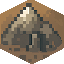
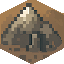
fix mountain image

Changed region(s): [[0.5312, 0.0, 1.0, 0.25]]

diff --git a/src/components/TitleBackground.vue b/src/components/TitleBackground.vue
@@ -15,7 +15,7 @@ import { getTileType, getCachedTile } from '../core/procGen';
 // Asset imports for real tile imagery (masked to hex)
 import forest from '../assets/tiles/forest.png';
 import plains from '../assets/tiles/plains.png';
-import mountain from '../assets/tiles/mountain.png';
+import mountain from '../assets/tiles/mountains.png';
 import water from '../assets/tiles/water.png';
 import ruin from '../assets/tiles/ruin.png';
 

diff --git a/src/components/HexMap.vue b/src/components/HexMap.vue
@@ -27,7 +27,7 @@ import {
 
 import forest from '../assets/tiles/forest.png';
 import plains from '../assets/tiles/plains.png';
-import mountain from '../assets/tiles/mountain.png';
+import mountain from '../assets/tiles/mountains.png';
 import water from '../assets/tiles/water.png';
 import mine from '../assets/tiles/mine.png';
 import ruin from '../assets/tiles/ruin.png';
